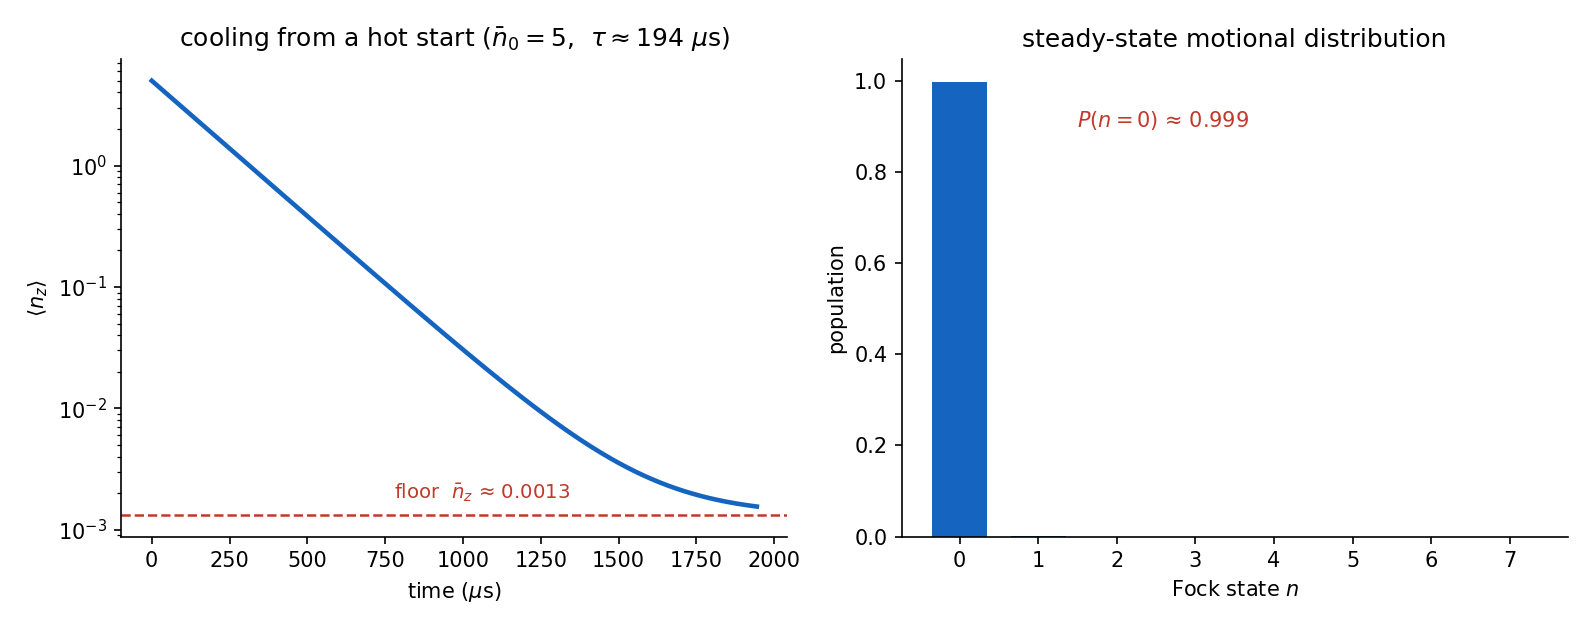
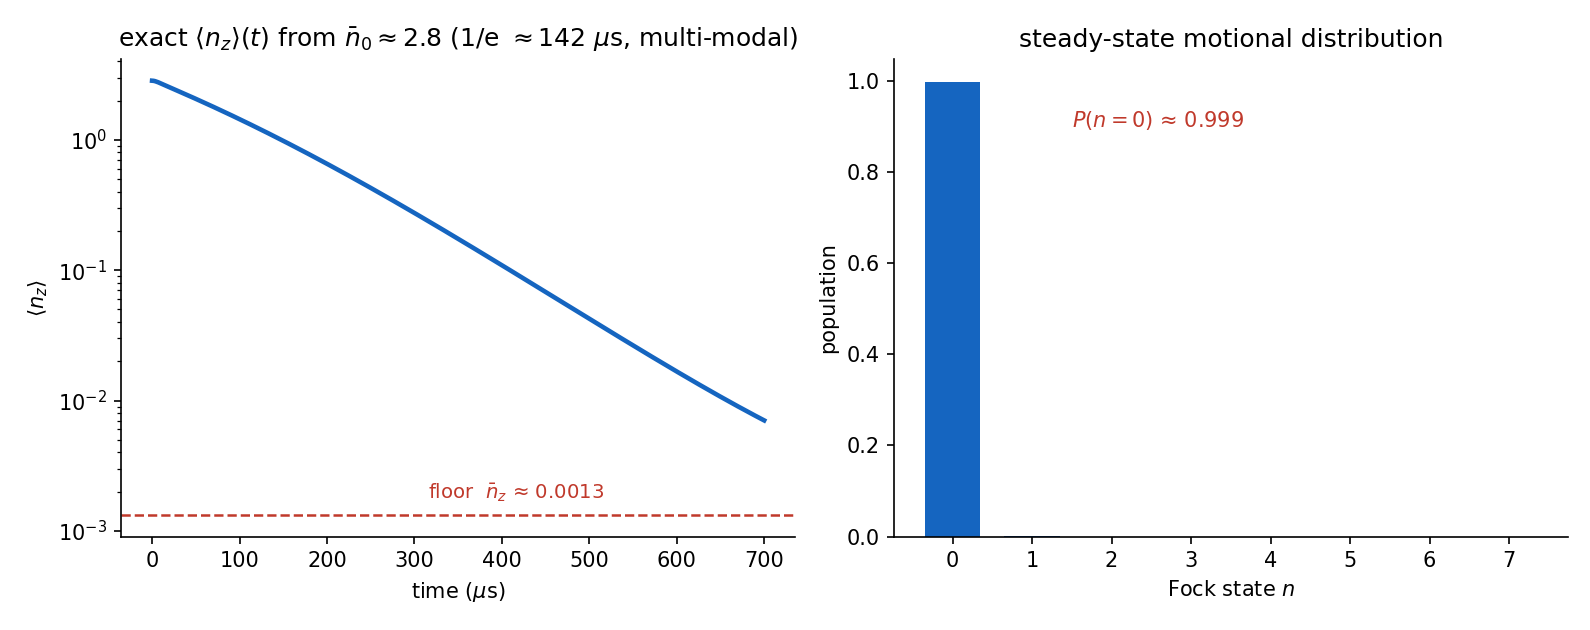
first commit

diff --git a/README.md b/README.md
@@ -130,7 +130,7 @@ cooling.py` (< 10 s).
 
 ![cooling curve from a hot start, and the final motional distribution](cooling_curve.png)
 
-*Left: starting hot (n̄₀ = 5), the axial motion cools exponentially to the floor in τ ≈ 0.2 ms — the same
+*Left: starting hot (n̄₀ = 2.8), the axial motion cools exponentially to the floor in τ ≈ 142 us — the same
 steady state, reached as a rate (the slowest Liouvillian mode). Right: at steady state essentially all the
 population is in the motional ground state, P(n=0) ≈ 0.999. From [`plots.py`](plots.py).*
 